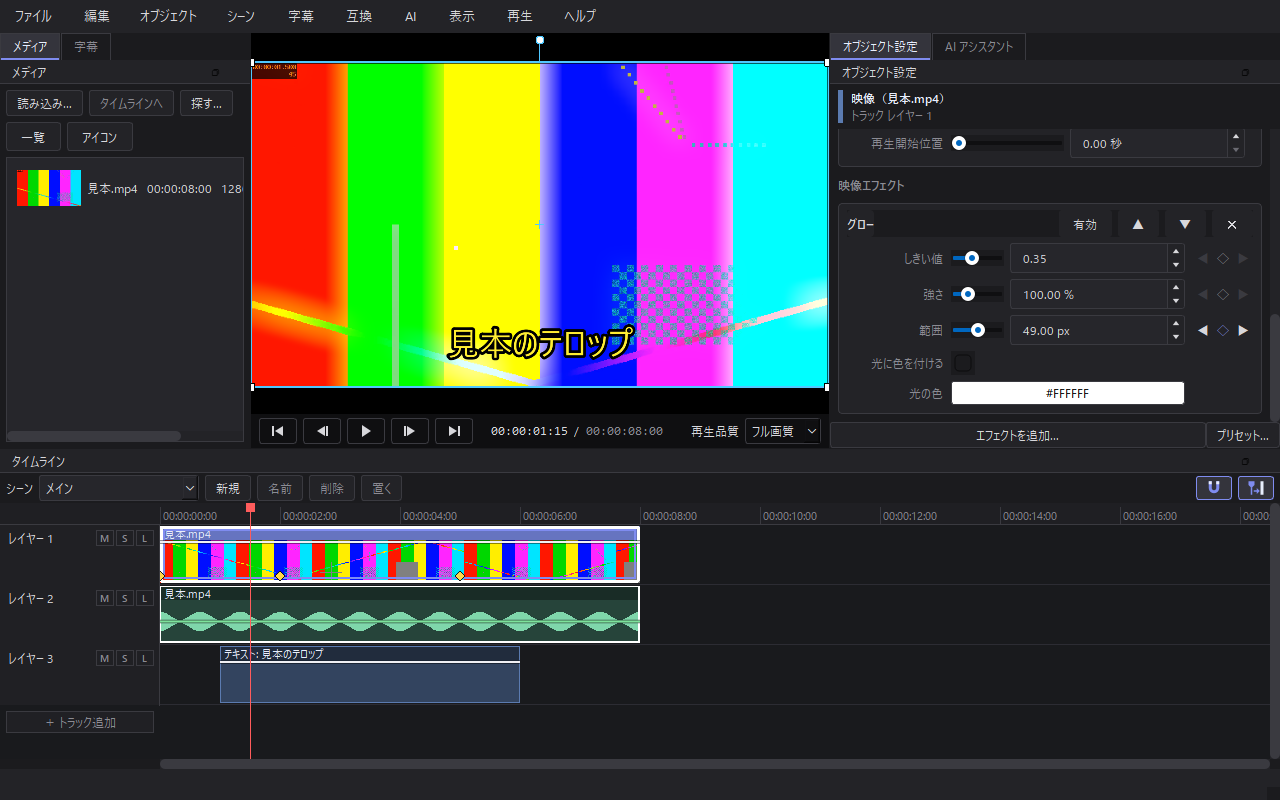
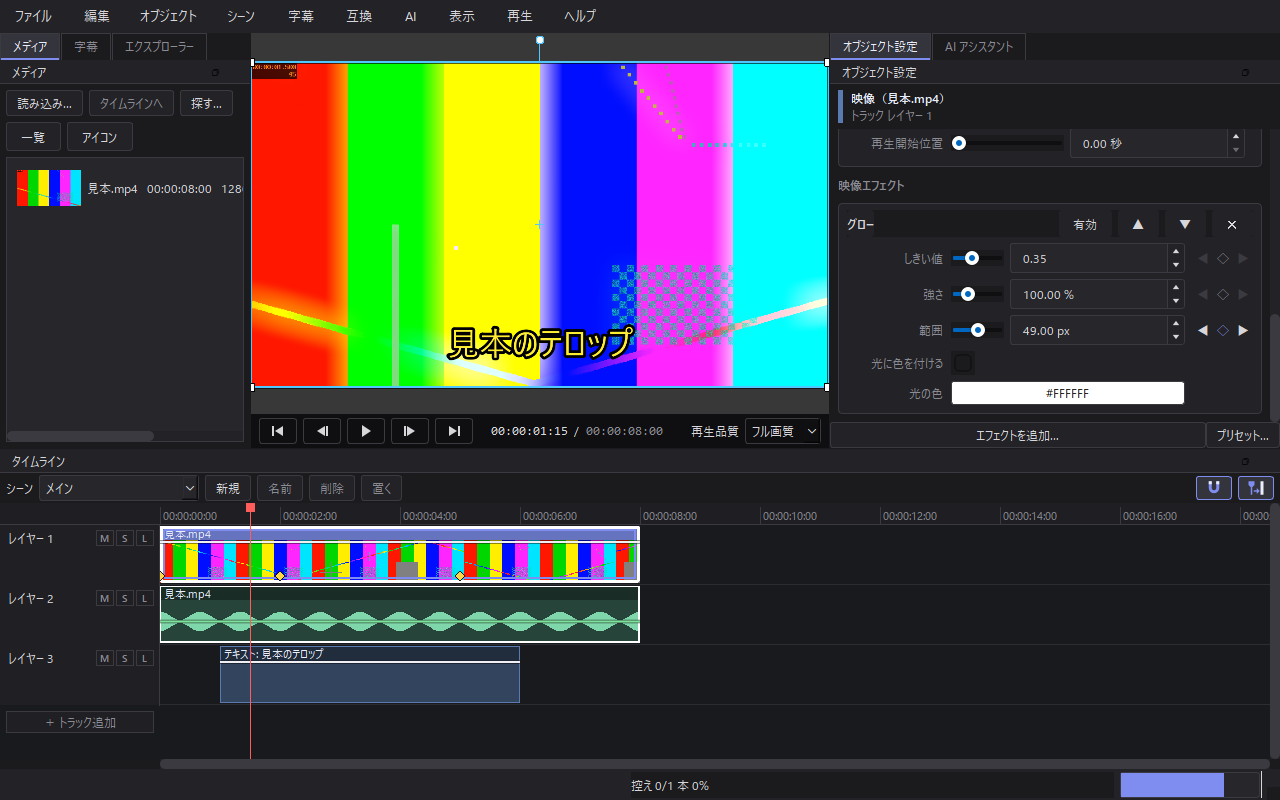
0.2.7 を出すために版の数字を上げ、README と画面の写真を今の機能に合わせる
- __version__ と Discussions の雛形の版、署名の方針の「署名していない版」を 0.2.7 にする
- README に素材の置き方の既定・止め絵と静止画・エクスプローラー・診断情報を足し、AI の効果音の出どころを登録したフォルダに合わせる
- tools/shots.py にエクスプローラーの写真（docs/explorer.png）を足し、編集画面と設定の画面の写真を撮り直す

diff --git a/tools/shots.py b/tools/shots.py
@@ -34,14 +34,17 @@ from __future__ import annotations
 import argparse
 import io
 import json
+import math
 import os
 import re
 import shutil
+import struct
 import subprocess
 import sys
 import tempfile
 import time
 import traceback
+import wave
 import zipfile
 from collections.abc import Callable, Iterator, Sequence
 from contextlib import contextmanager
@@ -51,6 +54,7 @@ from pathlib import Path
 
 sys.path.insert(0, str(Path(__file__).resolve().parent.parent / "src"))
 
+import numpy as np
 from PySide6.QtCore import QEvent, QEventLoop, QPoint, QRect, QRectF, Qt, QTimer
 from PySide6.QtGui import QColor, QIcon, QImage, QPainter, QPen, QSurfaceFormat
 from PySide6.QtOpenGLWidgets import QOpenGLWidget
@@ -98,6 +102,7 @@ from sashimono.core.commands import (
 from sashimono.core.io import Preset, PresetStore
 from sashimono.core.io.aliases import AliasStore
 from sashimono.core.io.library import PRESET, Library
+from sashimono.core.material_library import CATEGORY_SOUND_EFFECT, LibraryFolder
 from sashimono.core.model import (
     AnimatedValue,
     Clip,
@@ -113,8 +118,10 @@ from sashimono.core.timebase import FrameRate
 from sashimono.effects.definition import registry
 from sashimono.effects.sources import TEXT
 from sashimono.effects.strokes import STROKE
+from sashimono.engine.audio.library_sound import PreviewPlayer
 from sashimono.runtime import PackageStatus, PackStatus
 from sashimono.ui.compat_dialog import CompatibilityDialog
+from sashimono.ui.explorer import VIEW_ICONS, ExplorerPanel
 from sashimono.ui.inspector import InspectorPanel
 from sashimono.ui.library_dialog import LibraryDialog
 from sashimono.ui.library_save import SaveDialog
@@ -1158,6 +1165,82 @@ def shot_preferences(context: Context) -> QImage:
     return _grab_dialog(_full_preferences())
 
 
+def _write_sample_sound(path: Path, seconds: float, level_db: float) -> None:
+    """見本の音（正弦波）を WAV で書く
+
+    同梱の効果音は無く、配布物の音を写真に入れることもできないので、その場で作る
+    大きさを変えておくと、一覧の「音の大きさ」の列に違う値が並ぶ
+    """
+    rate = 48000
+    count = int(seconds * rate)
+    amplitude = 10 ** (level_db / 20)
+    samples = [
+        int(32767 * amplitude * math.sin(2 * math.pi * 440 * i / rate)) for i in range(count)
+    ]
+    path.parent.mkdir(parents=True, exist_ok=True)
+    with wave.open(str(path), "wb") as out:
+        out.setnchannels(1)
+        out.setsampwidth(2)
+        out.setframerate(rate)
+        out.writeframes(struct.pack(f"<{count}h", *samples))
+
+
+class _SilentSink:
+    """下見の音を鳴らさない口 撮っている間に本人の机で音が出ないようにする"""
+
+    def write(self, samples: np.ndarray) -> None:
+        del samples
+
+    def close(self, drain: bool) -> None:
+        del drain
+
+
+def shot_explorer(context: Context) -> QImage:
+    """エクスプローラー 登録した動画のフォルダをアイコンで出し、1 本を下見に出したところ"""
+    if context.work is None or context.media is None:
+        raise ShotError("作業用のフォルダか見本の素材が無いので、エクスプローラーを撮れない")
+    library = context.work / "素材"
+    movies = library / "動画"
+    sounds = library / "効果音"
+    movies.mkdir(parents=True, exist_ok=True)
+    for name in ("オープニング.mp4", "街.mp4", "まとめ.mp4"):
+        shutil.copyfile(context.media, movies / name)
+    _write_sample_sound(sounds / "ドン.wav", 0.8, -8.0)
+    _write_sample_sound(sounds / "ピコン.wav", 0.4, -12.0)
+    panel = ExplorerPanel(
+        [
+            LibraryFolder(str(sounds), CATEGORY_SOUND_EFFECT),
+            LibraryFolder(str(movies), "video"),
+        ],
+        player=PreviewPlayer(sink=lambda _rate, _channels: _SilentSink()),
+        thumbs=context.work / "explorer-thumbs",
+    )
+    hide_from_screen(panel)
+    panel.resize(1100, 640)
+    panel.show()
+    try:
+        panel.open_folder(str(movies))
+        panel.set_view_mode(VIEW_ICONS)
+        # 見本の絵は裏の糸で作る 出そろう前に撮ると灰色の箱が並ぶ
+        _wait(panel, 4.0)
+        panel.select_file(movies / "街.mp4")
+        _wait(panel, 1.5)
+        hide_work_folder(panel)
+        return grab(panel)
+    finally:
+        panel.shutdown()
+        panel.deleteLater()
+
+
+def _wait(widget: QWidget, seconds: float) -> None:
+    """``seconds`` 秒のあいだ画面の仕事を回す 裏の糸の結果がタイマーで入るのを待つ"""
+    del widget
+    end = time.monotonic() + seconds
+    while time.monotonic() < end:
+        QApplication.processEvents()
+        time.sleep(0.02)
+
+
 def _full_preferences() -> PreferencesDialog:
     """設定の窓を、巻物にせず全部が見える高さで開く
 
@@ -2062,6 +2145,7 @@ SHOTS: tuple[Shot, ...] = (
     Shot("ymm4-shelf", "テンプレートの棚（見本の YMM4）", shot_ymm4_shelf, needs_media=False),
     Shot("ymm4-template", "YMM4 のテンプレートの再現", shot_ymm4_template, needs_media=False),
     Shot("preferences", "Wiki の設定のページ", shot_preferences, needs_media=False),
+    Shot("explorer", "README のエクスプローラー", shot_explorer),
     Shot("compat-report", "Wiki の困ったときのページ", shot_compat_report, needs_media=False),
     # ここから Wiki の手順書 名前の頭は手順書のページ
     Shot("first-new", "手順書 最初の 1 本: 新規", wiki_first_new, needs_media=False, wiki=True),

diff --git a/src/sashimono/__init__.py b/src/sashimono/__init__.py
@@ -2,7 +2,7 @@
 
 import os as _os
 
-__version__ = "0.2.6"
+__version__ = "0.2.7"
 
 #: numpy の行列計算（OpenBLAS）が使うスレッドの数の上限（#454）
 #:

diff --git a/docs/code-signing-policy.md b/docs/code-signing-policy.md
@@ -10,7 +10,7 @@ Planned: free code signing provided by [SignPath.io](https://about.signpath.io/)
 
 > Status: the SignPath Foundation did not approve the first application (October 2026) because the
 > project is not yet widely known. We plan to apply again once it has gained broader recognition.
-> Releases up to and including 0.2.6 are **not** signed.
+> Releases up to and including 0.2.7 are **not** signed.
 > This page will be updated when signed releases begin.
 
 ### What is signed
@@ -101,7 +101,7 @@ Planned: free code signing provided by [SignPath.io](https://about.signpath.io/)
 （予定 SignPath.io の無料のコード署名を使い、証明書は SignPath Foundation が持つ）
 
 > 最初の申し込み（2026 年 10 月）は、まだ広く知られていないという理由で SignPath Foundation に通らなかった
-> 知られるようになったら申し込み直す 0.2.6 までの版は署名していない
+> 知られるようになったら申し込み直す 0.2.7 までの版は署名していない
 > 署名した版を出し始めたら、このページを直す
 
 ### 署名する物
